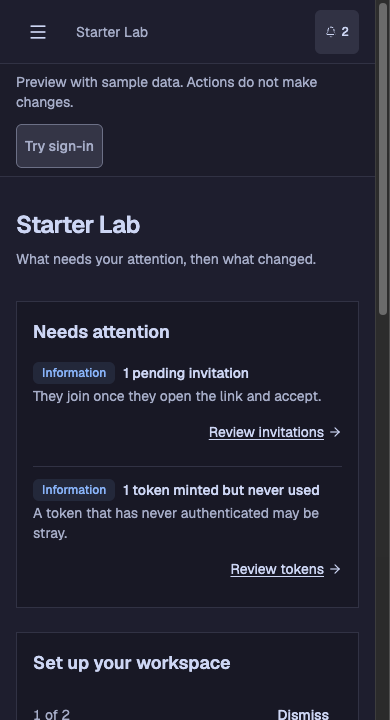
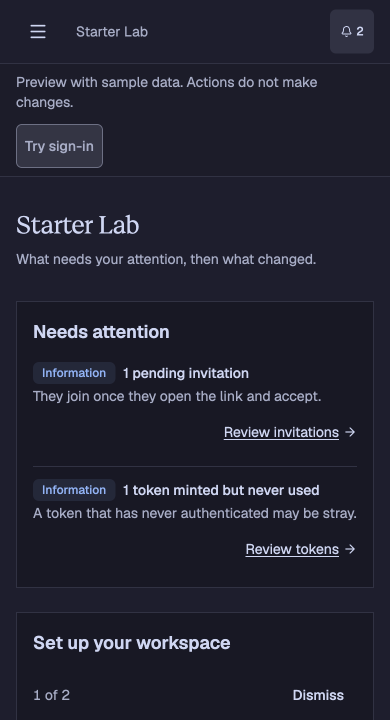
feat(web): extend Geist Serif to app page titles (#1501)
## Outcome

Extends Geist Serif to workspace, account, and admin page titles through
the shared `PageHeader`. Body text, panel headings, controls, tables and
navigation retain their existing Sans/Mono typography.

Stack: #1499 → #1500 → this PR. Merge from the bottom up. This PR
targets `t3/geist-serif-public-titles`.

## Decisions

- Keep the existing 24px page-title size and use native Regular/400 with
synthesis disabled.
- Colocate the font preload with the shared page header.
- Refresh the desktop/mobile workspace preview images shown on the
landing page, following DESIGN.md.

## Validation

Tested revision: `6419f539`.

- `E2E_PORT=3197 DEV_API_PORT=8897 DEV_BACKGROUND_PORT=8898 pnpm run
validate` passed, including `check`, build, compiled E2E and Alchemy
E2E.
- Compiled E2E: 88 passed, 11 skipped. Alchemy E2E: 15 passed. No
retries reported.
- Independent Standards and Spec reviews: no findings.
- Browser verification: English/Norwegian overview at desktop/mobile
widths has no horizontal overflow. The h1 resolves to Geist Serif/400;
panel headings remain Geist Sans. One serif WOFF2 request matches the
preload.
- [Reproduction commands and observed
results](https://github.com/brandhaug/b2b-saas-starter/blob/6419f539/docs/audits/geist-serif-app/README.md).

| Viewport | Before | After |
| --- | --- | --- |
| Desktop | ![Before
desktop](https://raw.githubusercontent.com/brandhaug/b2b-saas-starter/6419f539/docs/audits/geist-serif-app/before-desktop.png)
| ![After
[…]

diff --git a/apps/web/src/components/page/page-header.tsx b/apps/web/src/components/page/page-header.tsx
@@ -1,5 +1,6 @@
 import { type ReactNode } from 'react'
 import { m } from '@b2b-saas-starter/i18n/messages'
+import geistSerifWoff2 from '@/assets/fonts/geist-serif/GeistSerif-Regular.woff2?url'
 
 /**
  * The top of every page: an optional breadcrumb slot, the `h1`, its
@@ -22,6 +23,13 @@ export function PageHeader({
 }) {
   return (
     <header className="grid gap-3">
+      <link
+        rel="preload"
+        href={geistSerifWoff2}
+        as="font"
+        type="font/woff2"
+        crossOrigin="anonymous"
+      />
       {breadcrumb === undefined ? null : (
         <nav
           aria-label={m.public_knowledge_breadcrumb()}
@@ -34,10 +42,7 @@ export function PageHeader({
         {/* `title` on the truncated text so the full page name survives
             hover/AT even when the column is too narrow to show it. */}
         <div className="grid min-w-0 gap-2">
-          <h1
-            className="text-2xl font-semibold tracking-tight text-balance"
-            title={title}
-          >
+          <h1 className="font-display text-2xl font-normal text-balance" title={title}>
             {title}
           </h1>
           {description === undefined ? null : (

diff --git a/apps/web/src/routes/__root.tsx b/apps/web/src/routes/__root.tsx
@@ -9,8 +9,8 @@ import '@fontsource-variable/geist-mono/index.css'
 // Latin variable woff2 for the text faces that render above the fold,
 // resolved by Vite so the preload href always matches the emitted asset.
 // Without these, the fonts start loading two round-trips deep (CSS → font
-// file) after first paint. Public and entry-auth layouts own the Geist Serif
-// preload; workspace pages still use the sans face.
+// file) after first paint. Public/entry-auth layouts and app page headers
+// own the Geist Serif preload, alongside the titles that use it.
 import geistLatinWoff2 from '@fontsource-variable/geist/files/geist-latin-wght-normal.woff2?url'
 import geistMonoLatinWoff2 from '@fontsource-variable/geist-mono/files/geist-mono-latin-wght-normal.woff2?url'
 import { type QueryClient } from '@tanstack/react-query'

diff --git a/apps/web/src/index.css b/apps/web/src/index.css
@@ -291,8 +291,8 @@
   scroll-margin-top: 5.5rem;
 }
 
-/* Geist Serif ships in Regular only. Opt in for large public page titles;
-   keep card, workspace, and small-text headings in Geist Sans. */
+/* Geist Serif ships in Regular only. Opt in for display headings and page
+   titles; keep card and small-text headings in Geist Sans. */
 @utility font-display {
   font-family: var(--font-display);
   font-synthesis: none;

diff --git a/DESIGN.md b/DESIGN.md
@@ -21,18 +21,18 @@ The `.marketing` wrapper owns public typography, prose, and focus treatment. It 
 
 Self-hosted family names must match their font-face declarations: `Geist Variable`, `Geist Mono Variable`, and `Geist Serif`. The sans and mono families come from Fontsource; the official Geist Serif Regular asset and license live in `apps/web/src/assets/fonts/geist-serif`.
 
-Geist handles body text and smaller headings. Geist Mono handles code, identifiers, and tabular numeric data. Geist Serif handles landing display headings and large public page titles, including docs articles, pricing, legal, support, purchase, sign-in, and sign-up. Use `font-display` at its native Regular weight with synthesis disabled. Workspace, card, and compact authentication headings stay in Geist Sans. Public and entry-auth layouts preload the serif asset.
+Geist handles body text and smaller headings. Geist Mono handles code, identifiers, and tabular numeric data. Geist Serif handles landing display headings and page titles across public, entry-auth, workspace, account, and admin pages. Use `font-display` at its native Regular weight with synthesis disabled. Card and compact authentication headings stay in Geist Sans. Public/entry-auth layouts and the shared app page header preload the serif asset.
 
-| Content                         | Treatment                                                                        |
-| ------------------------------- | -------------------------------------------------------------------------------- |
-| Landing hero / section headings | Geist Serif, `text-4xl` to `text-7xl` / `text-3xl` to `text-5xl`, regular weight |
-| Public / entry-auth page titles | Geist Serif `text-3xl font-normal`                                               |
-| Workspace page titles           | Geist Sans `text-2xl font-semibold`                                              |
-| Article section headings        | `text-xl` h2, `text-base` h3                                                     |
-| Card titles                     | Geist `text-lg font-semibold`                                                    |
-| Body                            | `text-sm` at every width; long-form prose `text-lg`                              |
-| Form controls and their labels  | `text-base` below `md`, `text-sm` above                                          |
-| Micro text                      | Mono hints, table headers, and schematic labels only                             |
+| Content                            | Treatment                                                                        |
+| ---------------------------------- | -------------------------------------------------------------------------------- |
+| Landing hero / section headings    | Geist Serif, `text-4xl` to `text-7xl` / `text-3xl` to `text-5xl`, regular weight |
+| Public / entry-auth page titles    | Geist Serif `text-3xl font-normal`                                               |
+| Workspace / account / admin titles | Geist Serif `text-2xl font-normal`                                               |
+| Article section headings           | `text-xl` h2, `text-base` h3                                                     |
+| Card titles                        | Geist `text-lg font-semibold`                                                    |
+| Body                               | `text-sm` at every width; long-form prose `text-lg`                              |
+| Form controls and their labels     | `text-base` below `md`, `text-sm` above                                          |
+| Micro text                         | Mono hints, table headers, and schematic labels only                             |
 
 Use sentence case. Keep input text at 16px on mobile to avoid focus zoom. Micro sizes are unsuitable for prose or interactive labels.
 

diff --git a/docs/audits/geist-serif-app/README.md b/docs/audits/geist-serif-app/README.md
@@ -1,0 +1,35 @@
+# App page title verification
+
+The shared `PageHeader` supplies workspace, account, and admin page titles.
+It now uses Geist Serif Regular at the existing 24px size, with the font
+preload colocated in the header. Panels, data, controls, and navigation retain
+Geist Sans or Mono.
+
+## Reproduce
+
+```sh
+pnpm -C packages/i18n generate
+pnpm run db:migrate:local
+pnpm run db:seed
+pnpm -C apps/web run build:e2e
+pnpm -C apps/web run serve:e2e --port 3181 --strictPort
+```
+
+Visit `/` to select English, then `/demo`, which renders the real workspace
+overview component with sample data. Capture at 1440 × 1000 and 390 × 844 CSS
+pixels after `document.fonts.ready`. Before images were captured on `1dcbae7b`;
+the intervening public/auth title change leaves this app header unchanged.
+
+## Observed results
+
+- The page title loads Geist Serif at weight 400. Panel headings stay in Geist Sans.
+- English and Norwegian overview pages fit at desktop and mobile widths without
+  horizontal overflow.
+- The page requests one serif WOFF2. The preload matches the CSS asset.
+- The landing-page workspace preview images were refreshed from `/demo` at
+  1440 × 1000 and 390 × 720, encoded as lossless WebP.
+
+| Viewport | Before                                | After                               |
+| -------- | ------------------------------------- | ----------------------------------- |
+| Desktop  | ![Before desktop](before-desktop.png) | ![After desktop](after-desktop.png) |
+| Mobile   | ![Before mobile](before-mobile.png)   | ![After mobile](after-mobile.png)   |

diff --git a/PRODUCT.md b/PRODUCT.md
@@ -59,7 +59,7 @@ Calm, inspectable, opinionated. The voice of a senior engineer walking you throu
 - Generic AI-generated SaaS landing pages: gradient heroes, glassmorphism, glowing accents, identical icon-card grids, fake metrics, testimonial walls.
 - Fictional-product marketing — the showcase describes the Starter itself, never an invented company.
 - Consumer-product warmth (illustration-heavy, playful mascots). This is a tool for serious operators.
-- Editorial-magazine affectation such as drop caps and serif body text. Geist Serif is reserved for landing display headings and large public/auth page titles; body text, controls, cards, and workspace pages use Geist Sans.
+- Editorial-magazine affectation such as drop caps and serif body text. Geist Serif is reserved for landing display headings and page titles; body text, controls, cards, and tables use Geist Sans.
 
 ## Design Principles
 

diff --git a/apps/web/src/assets/fonts/geist-serif/README.md b/apps/web/src/assets/fonts/geist-serif/README.md
@@ -5,4 +5,4 @@ Unmodified Regular WOFF2 from [vercel/geist-font](https://github.com/vercel/geis
 Licensed under the SIL Open Font License 1.1 in `LICENSE.txt`.
 This release has one weight, Regular, and supports Latin-script languages,
 including English and Norwegian Bokmål. The stylesheet declares weight 400;
-the landing route preloads the same Vite-managed asset.
+public/auth layouts and app page headers preload the same Vite-managed asset.
